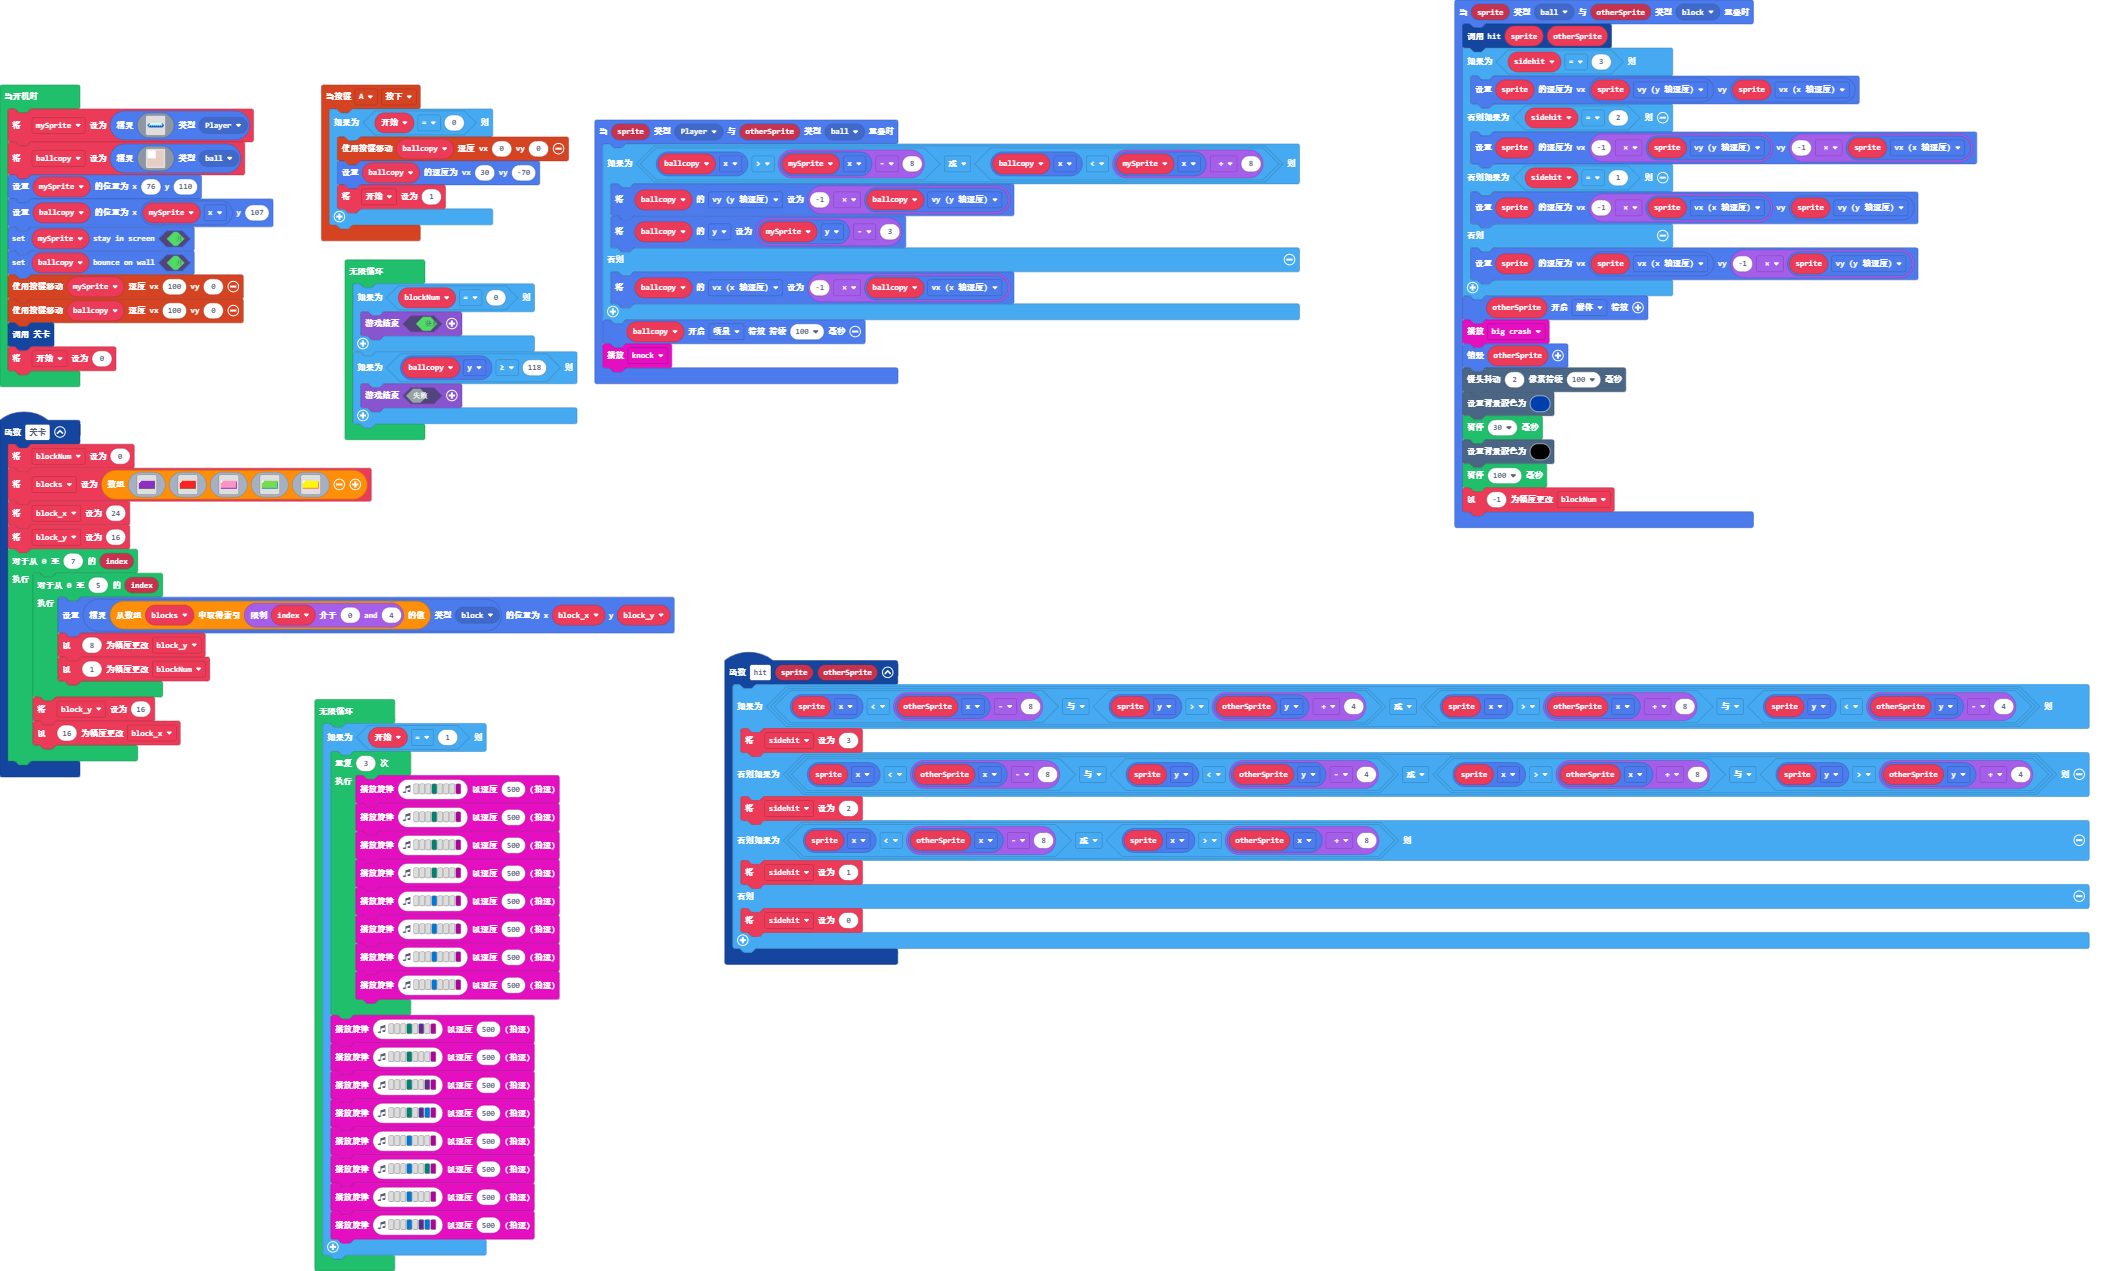
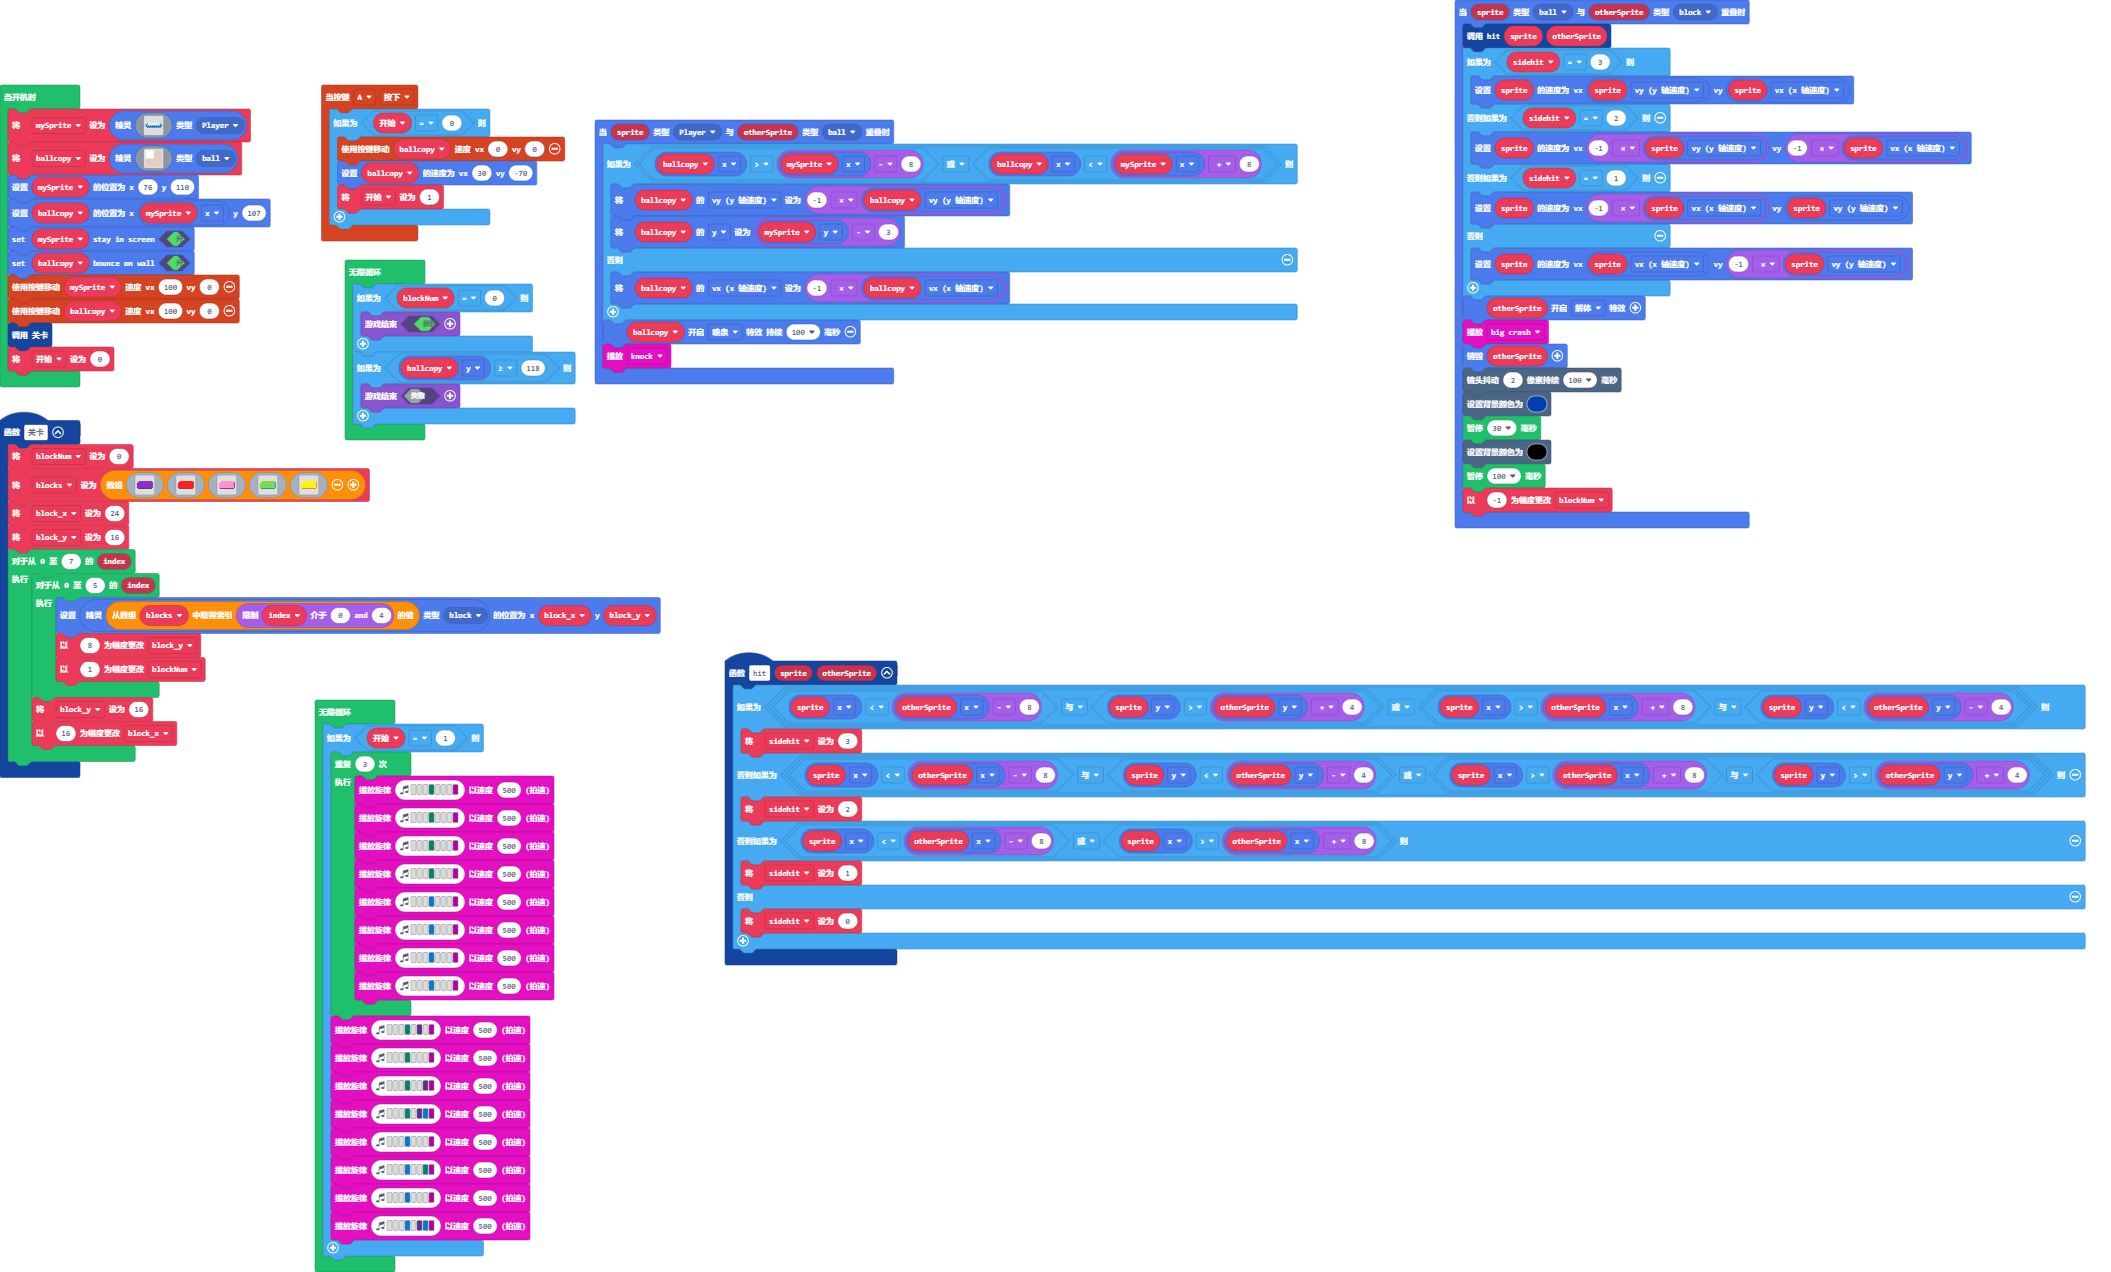
更新 main.blocks, main.ts, images.g.jres, images.g.ts

diff --git a/images.g.ts b/images.g.ts
@@ -5,58 +5,14 @@ namespace myImages {
         switch(helpers.stringTrim(name)) {
             case "image1":
             case "myImage":return img`
-1 1 7 7 7 7 7 7 7 7 7 7 7 7 7 7 
-1 7 7 7 7 7 7 7 7 7 7 7 7 7 7 6 
+. 5 7 7 7 7 7 7 7 7 7 7 7 7 7 . 
+5 7 7 7 7 7 7 7 7 7 7 7 7 7 7 6 
 7 7 7 7 7 7 7 7 7 7 7 7 7 7 7 6 
 7 7 7 7 7 7 7 7 7 7 7 7 7 7 7 6 
 7 7 7 7 7 7 7 7 7 7 7 7 7 7 7 6 
 7 7 7 7 7 7 7 7 7 7 7 7 7 7 7 6 
 7 7 7 7 7 7 7 7 7 7 7 7 7 7 7 6 
-6 6 6 6 6 6 6 6 6 6 6 6 6 6 6 6 
-`;
-            case "image2":
-            case "myImage0":return img`
-1 1 3 3 3 3 3 3 3 3 3 3 3 3 3 3 
-1 3 3 3 3 3 3 3 3 3 3 3 3 3 3 a 
-3 3 3 3 3 3 3 3 3 3 3 3 3 3 3 a 
-3 3 3 3 3 3 3 3 3 3 3 3 3 3 3 a 
-3 3 3 3 3 3 3 3 3 3 3 3 3 3 3 a 
-3 3 3 3 3 3 3 3 3 3 3 3 3 3 3 a 
-3 3 3 3 3 3 3 3 3 3 3 3 3 3 3 a 
-a a a a a a a a a a a a a a a a 
-`;
-            case "image3":
-            case "myImage1":return img`
-1 1 5 5 5 5 5 5 5 5 5 5 5 5 5 5 
-1 5 5 5 5 5 5 5 5 5 5 5 5 5 5 4 
-5 5 5 5 5 5 5 5 5 5 5 5 5 5 5 4 
-5 5 5 5 5 5 5 5 5 5 5 5 5 5 5 4 
-5 5 5 5 5 5 5 5 5 5 5 5 5 5 5 4 
-5 5 5 5 5 5 5 5 5 5 5 5 5 5 5 4 
-5 5 5 5 5 5 5 5 5 5 5 5 5 5 5 4 
-4 4 4 4 4 4 4 4 4 4 4 4 4 4 4 4 
-`;
-            case "image4":
-            case "myImage2":return img`
-1 1 2 2 2 2 2 2 2 2 2 2 2 2 2 2 
-1 2 2 2 2 2 2 2 2 2 2 2 2 2 2 e 
-2 2 2 2 2 2 2 2 2 2 2 2 2 2 2 e 
-2 2 2 2 2 2 2 2 2 2 2 2 2 2 2 e 
-2 2 2 2 2 2 2 2 2 2 2 2 2 2 2 e 
-2 2 2 2 2 2 2 2 2 2 2 2 2 2 2 e 
-2 2 2 2 2 2 2 2 2 2 2 2 2 2 2 e 
-e e e e e e e e e e e e e e e e 
-`;
-            case "image5":
-            case "myImage3":return img`
-1 1 a a a a a a a a a a a a a a 
-1 a a a a a a a a a a a a a a c 
-a a a a a a a a a a a a a a a c 
-a a a a a a a a a a a a a a a c 
-a a a a a a a a a a a a a a a c 
-a a a a a a a a a a a a a a a c 
-a a a a a a a a a a a a a a a c 
-c c c c c c c c c c c c c c c c 
+. 6 6 6 6 6 6 6 6 6 6 6 6 6 6 . 
 `;
         }
         return null;

diff --git a/main.ts b/main.ts
@@ -22,7 +22,43 @@ function hit (sprite: Sprite, otherSprite: Sprite) {
 }
 function 关卡 () {
     blockNum = 0
-    blocks = [assets.image`myImage3`, assets.image`myImage2`, assets.image`myImage0`, assets.image`myImage`, assets.image`myImage1`]
+    blocks = [img`
+        . 3 a a a a a a a a a a a a a . 
+        3 a a a a a a a a a a a a a a c 
+        a a a a a a a a a a a a a a a c 
+        a a a a a a a a a a a a a a a c 
+        a a a a a a a a a a a a a a a c 
+        a a a a a a a a a a a a a a a c 
+        a a a a a a a a a a a a a a a c 
+        . c c c c c c c c c c c c c c . 
+        `, img`
+        . 3 2 2 2 2 2 2 2 2 2 2 2 2 2 . 
+        3 2 2 2 2 2 2 2 2 2 2 2 2 2 2 e 
+        2 2 2 2 2 2 2 2 2 2 2 2 2 2 2 e 
+        2 2 2 2 2 2 2 2 2 2 2 2 2 2 2 e 
+        2 2 2 2 2 2 2 2 2 2 2 2 2 2 2 e 
+        2 2 2 2 2 2 2 2 2 2 2 2 2 2 2 e 
+        2 2 2 2 2 2 2 2 2 2 2 2 2 2 2 e 
+        . e e e e e e e e e e e e e e . 
+        `, img`
+        . 1 3 3 3 3 3 3 3 3 3 3 3 3 3 . 
+        1 3 3 3 3 3 3 3 3 3 3 3 3 3 3 a 
+        3 3 3 3 3 3 3 3 3 3 3 3 3 3 3 a 
+        3 3 3 3 3 3 3 3 3 3 3 3 3 3 3 a 
+        3 3 3 3 3 3 3 3 3 3 3 3 3 3 3 a 
+        3 3 3 3 3 3 3 3 3 3 3 3 3 3 3 a 
+        3 3 3 3 3 3 3 3 3 3 3 3 3 3 3 a 
+        . a a a a a a a a a a a a a a . 
+        `, assets.image`myImage`, img`
+        . 1 5 5 5 5 5 5 5 5 5 5 5 5 5 . 
+        1 5 5 5 5 5 5 5 5 5 5 5 5 5 5 4 
+        5 5 5 5 5 5 5 5 5 5 5 5 5 5 5 4 
+        5 5 5 5 5 5 5 5 5 5 5 5 5 5 5 4 
+        5 5 5 5 5 5 5 5 5 5 5 5 5 5 5 4 
+        5 5 5 5 5 5 5 5 5 5 5 5 5 5 5 4 
+        5 5 5 5 5 5 5 5 5 5 5 5 5 5 5 4 
+        . 4 4 4 4 4 4 4 4 4 4 4 4 4 4 . 
+        `]
     block_x = 24
     block_y = 16
     for (let index = 0; index <= 7; index++) {
